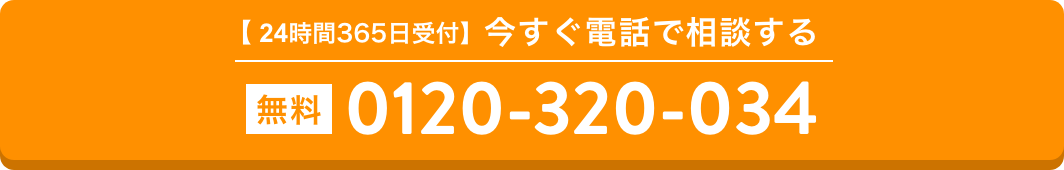
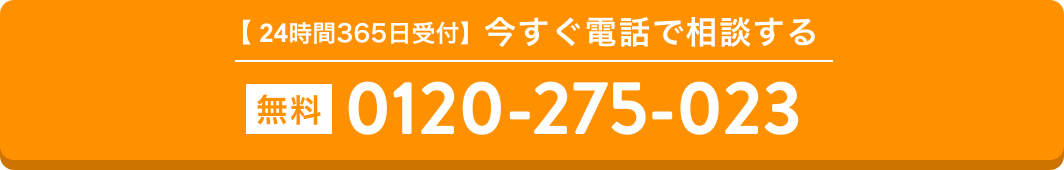
update

Changed region(s): [[0.4962, 0.4706, 0.7754, 0.7941]]

diff --git a/dist/css/style.css b/dist/css/style.css
@@ -12466,9 +12466,7 @@ table {
       margin-left: -15px; } }
 
 .single__merchant__info {
-  box-sizing: border-box;
-  padding: 1.5rem;
-  background-color: #e5f9ff; }
+  box-sizing: border-box; }
   .single__merchant__info-wrap {
     display: flex;
     justify-content: space-between;
@@ -12491,7 +12489,7 @@ table {
     .single__merchant__info-txt h3 {
       box-sizing: border-box;
       padding-left: 1rem;
-      border-left: solid 5px #333333;
+      border-left: solid 5px #07307b;
       font-weight: bold;
       font-size: 1.25rem;
       margin-bottom: 1rem; }

diff --git a/assets/sass/components/_single.scss b/assets/sass/components/_single.scss
@@ -87,8 +87,6 @@
 
     &__info {
       box-sizing: border-box;
-      padding: 1.5rem;
-      background-color: $secondary;
 
       &-wrap {
         display: flex;
@@ -119,7 +117,7 @@
         h3 {
           box-sizing: border-box;
           padding-left: 1rem;
-          border-left: solid 5px $body-color;
+          border-left: solid 5px $primary;
           font-weight: bold;
           font-size: 1.25rem;
           margin-bottom: 1rem;

diff --git a/page-kowarsu.php b/page-kowarsu.php
@@ -35,6 +35,7 @@ the_post();
 <div class="single__merchant__info">
 <div class="single__merchant__info-wrap">
 <div class="single__merchant__info-txt w-100">
+<p class="tag text-white bg-primary">当サイトおすすめ業者</p>
 <h3><?php the_title(); ?></h3>
 <div class="mb-3 row mx-0">
 <div class="col-md">
@@ -71,7 +72,7 @@ the_post();
 </div>
 </div>
 <!-- single__merchant__info -->
-<div class="mt-3">
+<div class="mt-3 w-100">
 <div class="merchant__inner__cta">
   <div class="d-block text-center p-0 mb-1">
 <img class="img-switch" src="<?php echo $wp_url; ?>/dist/images/btn_cta_tel_campaign.png" alt="" srcset="<?php echo $wp_url; ?>/dist/images/btn_cta_tel_campaign.png 1x, <?php echo $wp_url; ?>/dist/images/btn_cta_tel_campaign@2x.png 2x">
@@ -389,8 +390,11 @@ the_post();
 </div>
 <!-- #menu1 -->
 
-<div class="mb-5">
+<div class="mt-3 w-100">
 <div class="merchant__inner__cta">
+  <div class="d-block text-center p-0 mb-1">
+<img class="img-switch" src="<?php echo $wp_url; ?>/dist/images/btn_cta_tel_campaign.png" alt="" srcset="<?php echo $wp_url; ?>/dist/images/btn_cta_tel_campaign.png 1x, <?php echo $wp_url; ?>/dist/images/btn_cta_tel_campaign@2x.png 2x">
+</div>
 <a class="d-block text-center p-0 mb-2" href="tel:0120-275-023">
 <img class="img-switch" src="<?php echo $wp_url; ?>/dist/images/btn_cta_tel_pc.png" alt="" srcset="<?php echo $wp_url; ?>/dist/images/btn_cta_tel_pc.png 1x, <?php echo $wp_url; ?>/dist/images/btn_cta_tel_pc@2x.png 2x">
 </a>
@@ -399,8 +403,6 @@ the_post();
 </a>
 </div>
 </div>
-</div>
-<!-- .merchant__inner__cta -->
 
 <div id="menu3" class="case origin__inner mt-4">
 <h3><span>事例紹介</span></h3>
@@ -615,7 +617,7 @@ the_post();
 </div>
 <!-- #menu3 -->
 
-<div class="flow origin__inner">
+<div class="flow origin__inner w-100">
   <h3><span>ご利用の流れ</span></h3>
   <div class="origin__inner__wrap">
     <div class="origin__inner__wrap-item">
@@ -778,8 +780,11 @@ the_post();
 </div>
 <!-- #menu5 -->
 
-<div class="mt-5">
+<div class="mt-3 w-100">
 <div class="merchant__inner__cta">
+  <div class="d-block text-center p-0 mb-1">
+<img class="img-switch" src="<?php echo $wp_url; ?>/dist/images/btn_cta_tel_campaign.png" alt="" srcset="<?php echo $wp_url; ?>/dist/images/btn_cta_tel_campaign.png 1x, <?php echo $wp_url; ?>/dist/images/btn_cta_tel_campaign@2x.png 2x">
+</div>
 <a class="d-block text-center p-0 mb-2" href="tel:0120-275-023">
 <img class="img-switch" src="<?php echo $wp_url; ?>/dist/images/btn_cta_tel_pc.png" alt="" srcset="<?php echo $wp_url; ?>/dist/images/btn_cta_tel_pc.png 1x, <?php echo $wp_url; ?>/dist/images/btn_cta_tel_pc@2x.png 2x">
 </a>
@@ -789,7 +794,7 @@ the_post();
 </div>
 </div>
 
-<div class="d-block text-center my-5">
+<div class="d-block text-center my-5 w-100">
   <a class="border-primary border-bottom" href="<?php echo $home; ?>">業者一覧に戻る</a>
 </div>
 
